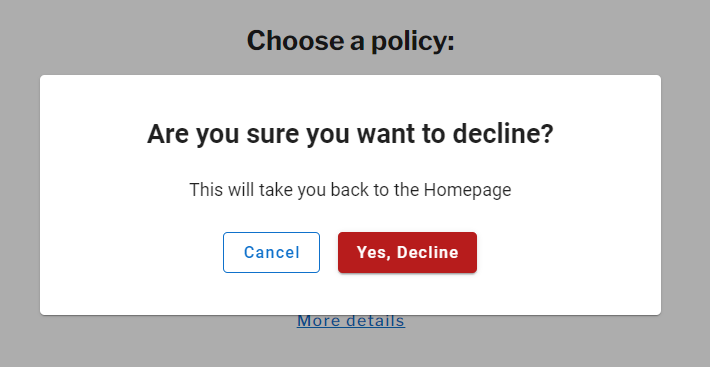
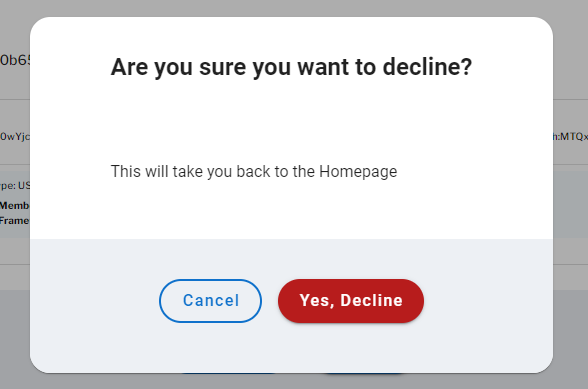
chore: updated the images from the use guide and added authorization error

diff --git a/docs/user manual/User Manual Product Viewer App.md b/docs/user manual/User Manual Product Viewer App.md
@@ -26,28 +26,45 @@ This manual provides a step by step introduction on how to use the Product Pass 
 
 ## Content
 
-1. [Content](#content)
-2. [Getting Started](#getting-started)
-3. [Main Menu](#main-menu)
-    1. [Search for a Product Passport](#search-for-a-product-passport)
-    2. [Settings and Profile Information](#settings-and-profile-information)
-    3. [Catena-X Helpdesk](#catena-x-helpdesk)
-4. [Request Digital Product Passport](#request-digital-product-passport)
-    1. [Autosign Feature](#autosign-feature)
-        1. [Enable Autosign](#enable-autosign)
-        2. [Disable Autosign](#disable-autosign)
-            1. [Agree Contract](#agree-contract)
-            2. [Policy Interpretation](#policy-interpretation)
-            3. [Decline Contract](#decline-contract)
-            4. [Deprecated Aspect Models](#deprecated-aspect-models)
-    2. [Passport Page](#passport-page)
-    3. [Drilling Down Child Components](#drilling-down-child-components)
-5. [NOTICE](#notice)
+- [User Manual](#user-manual)
+  - [Content](#content)
+  - [Getting Started](#getting-started)
+  - [Authorization](#authorization)
+  - [Main Menu](#main-menu)
+    - [Search for a Product Passport](#search-for-a-product-passport)
+    - [Settings and Profile Information](#settings-and-profile-information)
+    - [Catena-X Helpdesk](#catena-x-helpdesk)
+  - [Request Digital Product Passport](#request-digital-product-passport)
+    - [Autosign Feature](#autosign-feature)
+      - [Enable Autosign:](#enable-autosign)
+      - [Disable Autosign:](#disable-autosign)
+      - [Agree Contract](#agree-contract)
+        - [Policy Interpretation:](#policy-interpretation)
+      - [Decline Contract](#decline-contract)
+      - [Deprecated Aspect Models](#deprecated-aspect-models)
+      - [Passport Page](#passport-page)
+    - [Drilling Down Child Components](#drilling-down-child-components)
+  - [NOTICE](#notice)
 
 ## Getting Started
 
 After opening the Digital Product Pass Viewer application on your computer or phone, login with your company's login credentials.
 </br></br>  
+
+## Authorization
+
+In case the user is not allowed to login because the Authorization configuration is enabled the user will received this error:
+
+![Not Authorized](./images/NotAuthorized.png)
+
+It can be because of two complementary causes:
+- The user has not the same BPN number as the EDC connector
+- The user has no roles associated with the application instance (which is configured in the portal)
+
+In case you are allowed to acces the application and you get this error, please contact your administrator so he can add your account credentials at the portal for this instance. This can be done by editing your IAM configuration for the Digital Product Pass application obtained in the Marketplace.
+
+The user can logout or go back to the portal by clicking in the buttons.
+
 
 ## Main Menu
 
@@ -122,11 +139,15 @@ The sign feature basically signs the contract policy before the contract negotia
 
 In the **Choose a policy** dialog, there might be more than one policies listed. User needs to select the appriopriate one and click on the **Agree** button.
 
-The policy shown to the user, is written in Open Digital Rights Language (ODRL) format which is not so much human readable form. Therefore, please see the [Policy Interpretation](#policy-interpretation)
+The policy shown to the user, is written in Open Digital Rights Language (ODRL), which is translated into a more visual interpretation. For more information consult [Policy Interpretation](#policy-interpretation)
 
 ##### Policy Interpretation:
 This section defines how the policy can be interpreted to make it more understandable. The contract policy contains two different constraints separted by **OR** logical operator against the defined asset Id in a target:
-A user or company can have access to this policy either they have **Membership** equals to **active** or **FrameworkAgreemen.sustainability** equals to **acive**.
+
+_Example of policy content_:
+A user or company can have access to this policy either they have **Membership** equals to **active** or **FrameworkAgreemen.sustainability** equals to **active**.
+
+In case the user want to see more details from the policy, it can be done by clicking in "More Details" which will display a JSON tree, with the complete policy and contract available for deep inspection.
 
 > **_NOTE:_**
 *The contract policy is always checked against the defined asset Id in a target field*
@@ -148,9 +169,8 @@ If a user is not permitted to accept a particular policy from his company, the c
 ![Decline Contract Policy](./images/DeclinePolicy.png)
 </br></br>
 
-
 #### Deprecated Aspect Models 
-The application goes through contract negotiation and data transfer processes, but doesn't visualize the deprecated aspect models. The models which are from older versions and no longer being used.
+In case the application is not able to visualize the model version because it is deprecated, the user will see the following error. The user shall search for another passport in this case because it can not be visualized.
 
 </br></br>
 ![Aspect Model Not Supported](./images/AspectNotSupported.png)
